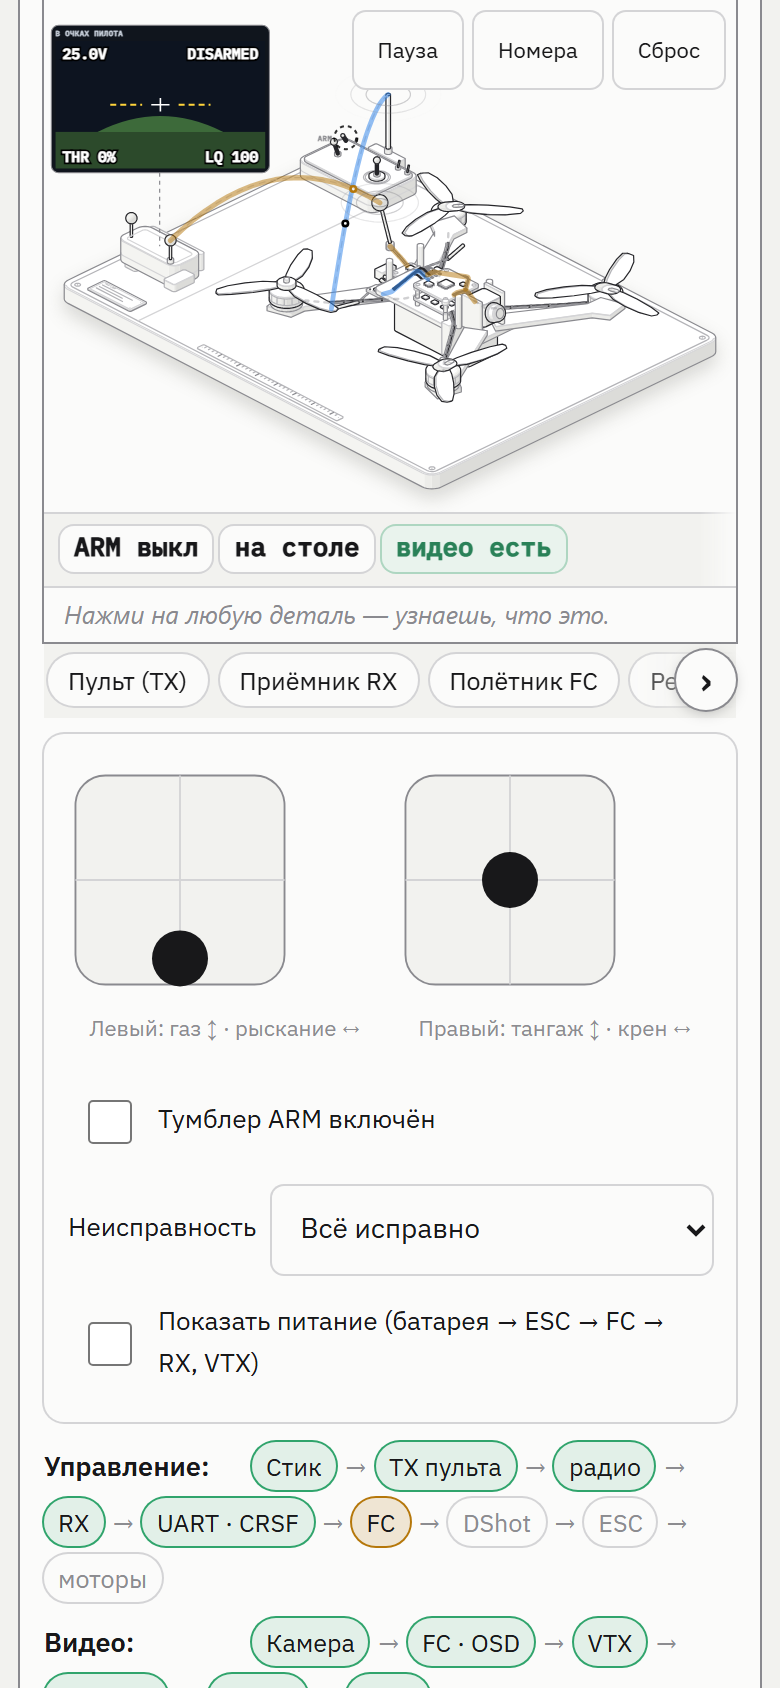
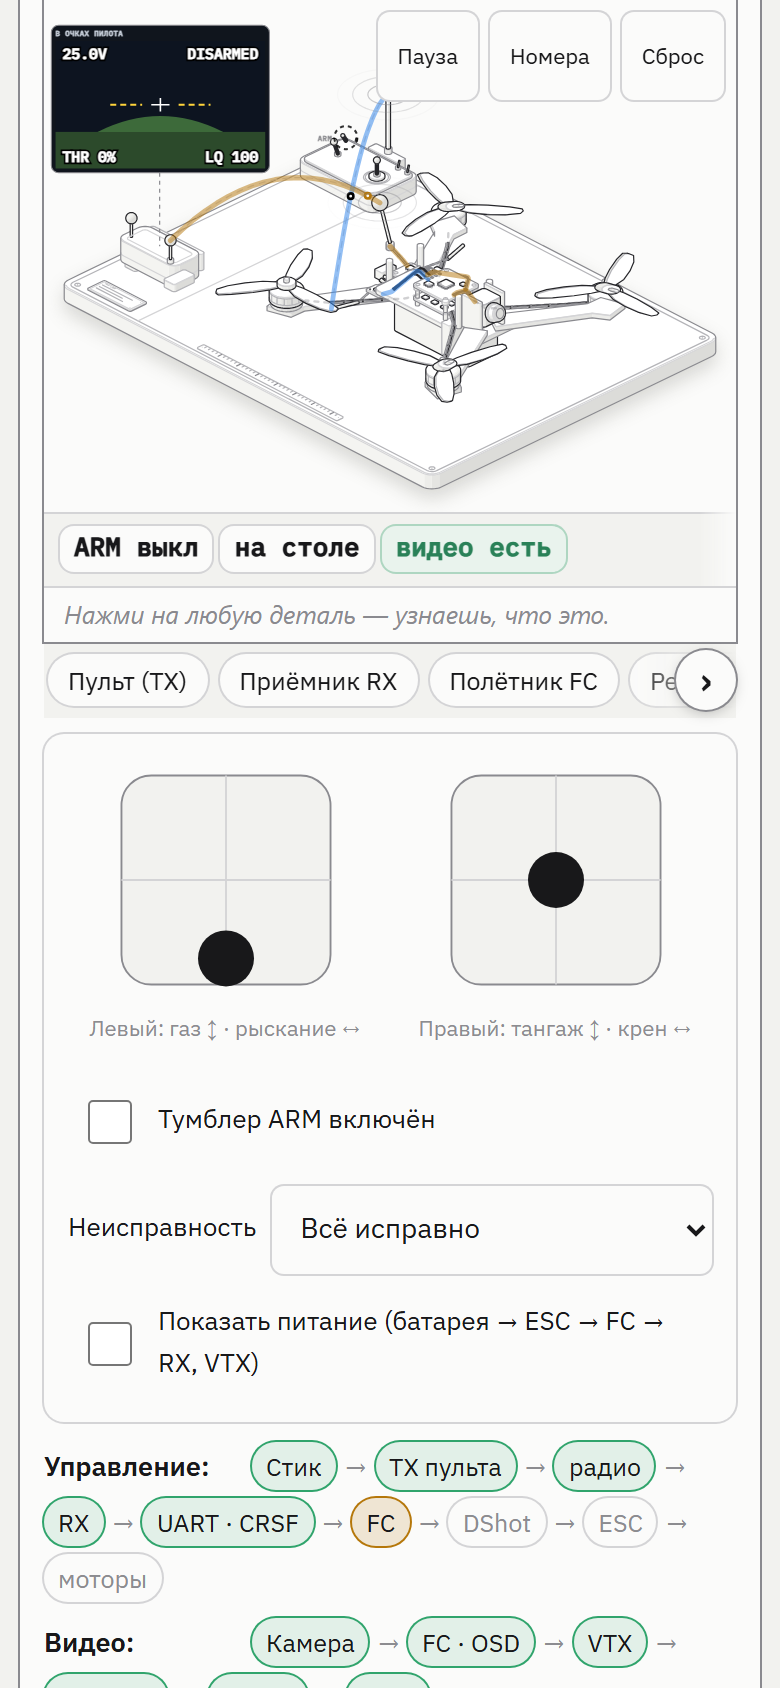
стили(вид): центровка стиков и мишени 44 px для кнопок стенда по ревью Grok (задача 009)

diff --git a/src/style.css b/src/style.css
@@ -855,13 +855,13 @@ table.t{max-width:100%;-webkit-overflow-scrolling:touch}
 .q-ans>summary::before{content:"▸";display:inline-block}
 .q-ans[open]>summary::before{transform:rotate(90deg)}
 .pth-wrong{color:var(--bad)}
-/* Пульт стенда на телефоне: стики поменьше и рядом, подписи короче, равная высота карточек */
+/* Пульт стенда на телефоне: стики поменьше и рядом, подписи короче, центровка и равная высота карточек */
 @media (max-width:560px){
-  .ctl-sticks .lab-stick svg{max-width:112px}
+  .ctl-sticks .lab-stick svg{max-width:112px;margin:0 auto}
   .ws-side .ctl-sticks>span,.ws-side .ctl-sticks .ctl-stickout{display:none}
   .ctl-sticks .ctl-pads{gap:8px;margin-top:2px}
-  .ctl-sticks .lab-stick{display:flex;flex-direction:column;justify-content:space-between;min-width:0}
-  .ctl-sticks .lab-stick small{font-size:11px;min-height:2.6em;display:flex;align-items:center;justify-content:center;text-align:center}
+  .ctl-sticks .lab-stick{display:flex;flex-direction:column;justify-content:space-between;align-items:center;min-width:0}
+  .ctl-sticks .lab-stick small{font-size:11px;min-height:2.6em;display:flex;align-items:center;justify-content:center;text-align:center;width:100%}
   .ws-side .ctl{margin:8px 0}
 }
 /* Мобильные сенсорные мишени >= 44 px (docs/ROLES.md, задача 009) */
@@ -872,7 +872,7 @@ table.t{max-width:100%;-webkit-overflow-scrolling:touch}
   .ctl select{min-height:44px;font-size:14px;padding:6px 10px}
   .ctl input[type="range"]{min-height:44px;padding:8px 0}
   .lab-tabs button{min-height:44px;display:inline-flex;align-items:center}
-  .fig-tools button{min-height:38px;padding:6px 12px}
+  .fig-tools button{min-height:44px;min-width:44px;padding:6px 10px}
 }
 /* Низкий экран телефона: текст задания — две строки, чтобы панель не закрывала пульт */
 @media (max-width:560px) and (max-height:780px){.q-task{display:-webkit-box;-webkit-line-clamp:2;-webkit-box-orient:vertical;overflow:hidden;font-size:14px;margin-top:4px}}

diff --git a/docs/tasks/009-touch-44.md b/docs/tasks/009-touch-44.md
@@ -16,4 +16,5 @@
 Скриншоты до/после 360 и 390, `npm test` зелёный (phone, width).
 
 ## Журнал
-- 2026-10-20: В `src/style.css` увеличены размеры мобильных сенсорных мишеней до ≥ 44 px (`.seg button`, `.ctl.check`, `.ctl select`, `.ctl input[type="range"]`, `.lab-tabs button`). Выровнена геометрия стиков на смартфонах (`.lab-stick` и `.lab-stick small` с `min-height: 2.6em` — обе карточки стиков теперь строго симметричны). Зафиксированы подтверждающие скриншоты в `docs/qa/img/` (ch01_sticks, ch06_battery, ch17_proc для 360×740 и 390×844). Все автотесты (`phone`, `width`, `routes`, `drone3d`) прошли без ошибок.
+- 2026-10-20: В `src/style.css` увеличены размеры мобильных сенсорных мишеней до ≥ 44 px (`.seg button`, `.ctl.check`, `.ctl select`, `.ctl input[type="range"]`, `.lab-tabs button`). Выровнена геометрия стиков на смартфонах (`.lab-stick` и `.lab-stick small` с `min-height: 2.6em` — обе карточки стиков строго симметричны).
+- 2026-10-20: По ревью Grok (PR #15): восстановлена точная центровка SVG стиков (`align-items: center; margin: 0 auto`), кнопки стенда `.fig-tools button` увеличены до 44×44 px. Обновлены скриншоты в `docs/qa/img/`. Все автотесты (`phone`, `width`, `routes`, `drone3d`, `armcase`) PASS.
